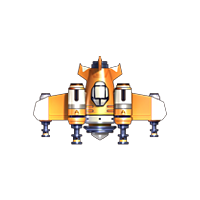
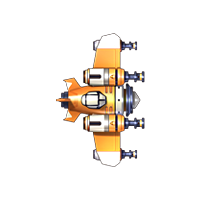
fix sight problem

Changed region(s): [[0.15, 0.15, 0.84, 0.81], [0.51, 0.81, 0.6, 0.84]]

diff --git a/game/src/StartScene.js b/game/src/StartScene.js
@@ -1,7 +1,9 @@
 var GameLayer = cc.Layer.extend({
 
     left_robot: null,
+    left_health: null,
     right_robot: null,
+    right_health: null,
 
     token: null,
 
@@ -33,13 +35,18 @@ var GameLayer = cc.Layer.extend({
     webstate: false,
 
     updateUI: function(data) {
+        var zoomScale = 9;
         console.log(data);
         var leftRobotData = data.left_robot,
             rightRobotData = data.right_robot;
-        this.left_robot.setPosition(leftRobotData.position.x, leftRobotData.position.y);
+        this.left_robot.setPosition(leftRobotData.position.x * zoomScale,
+            leftRobotData.position.y * zoomScale);
         this.left_robot.setRotation(leftRobotData.direction * 180 / Math.PI);
-        this.right_robot.setPosition(rightRobotData.position.x, rightRobotData.position.y);
+        this.right_robot.setPosition(rightRobotData.position.x * zoomScale,
+            rightRobotData.position.y * zoomScale);
         this.right_robot.setRotation(rightRobotData.direction * 180 / Math.PI);
+        this.left_health.setString('left health: ' + leftRobotData.health);
+        this.right_health.setString('right health: ' + rightRobotData.health);
     },
 
     openChannel: function(ref) {
@@ -62,6 +69,31 @@ var GameLayer = cc.Layer.extend({
 
     },
 
+    initSprite: function(resource, position, degree, scale) {
+        var sprite = cc.Sprite.create(resource);
+        sprite.setPosition(position.x, position.y);
+        sprite.setRotation(degree);
+        sprite.setScale(scale);
+        return sprite;
+    },
+
+    initHealth: function(robot, position) {
+
+        var healthBar = cc.LabelTTF.create(robot + ' health ', 'Arial', 20);
+        healthBar.setPosition(position.x, position.y);
+        /*var healthBar =
+            cc.ProgressTimer.create(this.initSprite(res.health_bar, position, 0, 0.4));
+        healthBar.setType(cc.PROGRESS_TIMER_TYPE_BAR);
+        healthBar.setBarChangeRate(cc.p(1, 0));
+        healthBar.setMidpoint(cc.p(0, 0));
+        
+        healthBar.setPosition(cc.p(position.x, position.y)); 
+
+        
+        return healthBar;*/
+        return healthBar;
+    },
+
     ctor:function () {
         this._super();
 
@@ -70,24 +102,29 @@ var GameLayer = cc.Layer.extend({
 
         var size = cc.winSize;
 
-        var sprite = cc.Sprite.create(res.background);
-        sprite.setPosition(size.width / 2, size.height / 2);
-        sprite.setScale(0.6);
-        this.addChild(sprite, 0);
+        var background = this.initSprite(res.background,
+            {'x': size.width / 2, 'y': size.height / 2}, 0, 1);
+        this.addChild(background, 0);
 
-        this.left_robot = cc.Sprite.create(res.yellow_robot);
-        this.left_robot.setPosition(size.width / 3, size.height / 2);
-        this.left_robot.setRotation(90);
-        this.left_robot.setScale(0.6);
+        this.left_robot = this.initSprite(res.yellow_robot,
+            {'x': size.width / 3, 'y': size.height / 2}, 0, 0.6);
         this.addChild(this.left_robot, 1);
 
-        this.right_robot = cc.Sprite.create(res.blue_robot);
-        this.right_robot.setPosition(size.width * 2 / 3, size.height / 2);
-        this.right_robot.setRotation(270);
-        this.right_robot.setScale(0.6);
+        this.right_robot = this.initSprite(res.blue_robot,
+            {'x': size.width * 2 / 3, 'y': size.height / 2}, 0, 0.6);
         this.addChild(this.right_robot, 1);
 
+        this.left_health = this.initHealth('left robot',
+            {'x': size.width * 0.1, 'y': size.height * 0.9 });
+        this.addChild(this.left_health, 1);
+
+        this.right_health = this.initHealth('right robot',
+            {'x': size.width * 0.8, 'y': size.height * 0.9});
+        this.addChild(this.right_health, 1);
+
         this.scheduleUpdate();
+
+
        
         return true;
     },
@@ -97,10 +134,14 @@ var GameLayer = cc.Layer.extend({
             this.websocket.send(JSON.stringify({'action': 'token', 'token': this.token}));
     },
 
+    lastUpdateTime: null,
+
     update: function(dt) {
-        this.watchFight(this);
-            
-        this.left_robot.setPosition(this.left_robot.x + dt * 10, this.left_robot.y);
+        var currTime = new Date().getTime();
+        if (null == this.lastUpdateTime || currTime - this.lastUpdateTime >= 1000) {
+            this.watchFight(this);
+            this.lastUpdateTime = currTime;
+        }
     }
 });
 

diff --git a/server/core/playground.js b/server/core/playground.js
@@ -23,12 +23,24 @@ ContextBuilder.prototype.withShape = function(shape) {
     return this;
 }
 
+ContextBuilder.prototype.withLocation = function(loc) {
+    this.loc = loc;
+    return  this;
+}
+
+ContextBuilder.prototype.withSight = function(sight) {
+    this.sight = sight;
+    return this;
+}
+
 ContextBuilder.prototype.build = function() {
 
     return {
-        'board_shape': this.shape,
+        'shape': this.shape,
         'items': this.items,
-        'hurt': this.hurt
+        'hurt': this.hurt,
+        'loc': this.loc,
+        'sight': this.sight
     };
 }
 
@@ -105,9 +117,9 @@ function PlaygroundBuilder() {
     }
 
     Playground.prototype.moveOnBoard = function(robot, loc) {
-        var oldLoc = robot.getLocation();
-        if (oldLoc != undefined)
-            delete this.board[oldLoc.y][oldLoc.x].item;
+        var prevLoc = robot.prevLoc;
+        if (undefined != prevLoc)
+            delete this.board[prevLoc.y][prevLoc.x].item;
         this.board[loc.y][loc.x].item = robot;
     }
 
@@ -121,11 +133,15 @@ function PlaygroundBuilder() {
     Playground.prototype.updateSight = function(robot) {
 
         var view = [];
-
+        var sector = [];
         scanSector(robot.sight, robot.loc, this.board, function(e) {
-            if (e.item != undefined)
+            sector.push(e);
+            if (undefined != e.item 
+                && !( e.x == robot.loc.x && e.y == robot.loc.y))
                 view.push(e.item);
         });
+        while ( undefined != (e = sector.pop()))
+            e.covered = false;
         return view;
     }
 
@@ -134,7 +150,7 @@ function PlaygroundBuilder() {
         var sz = size(this.board);
         var x = sz[0], y = sz[1];
         var robotY = Math.floor(y / 2),
-            xL = Math.floor(x / 3), xR = Math.floor(2 * x / 3);
+            xL = Math.floor(x * 2 / 3), xR = Math.floor(3 * x / 4);
         var initL = Point(xL, robotY), initR = Point(xR, robotY);
         this.moveRobot(this.robotL, initL);
         this.moveRobot(this.robotR, initR);
@@ -144,6 +160,8 @@ function PlaygroundBuilder() {
     }
 
     Playground.prototype.executeAct = function(summaryL, summaryR) {
+        this.moveRobot(this.robotL, this.robotL.loc);
+        this.moveRobot(this.robotR, this.robotR.loc);
         var distance = calDistance(this.robotL.getLocation(),
             this.robotR.getLocation());
         //if (distance <= this.robotL.attribute.arm)
@@ -157,13 +175,23 @@ function PlaygroundBuilder() {
         while(this.robotL.isAlive() && this.robotR.isAlive()) {
             var viewL = this.updateSight(this.robotL),
                 viewR = this.updateSight(this.robotR);
+
+            //this.board[50][75].covered = false;
+            //this.board[50][66].covered = false;
+
+            //console.log(this.board[50][75]);
+
             var contextL = new ContextBuilder()
                             .withItems(viewL)
                             .withShape(this.shape)
+                            .withLocation(this.robotL.loc)
+                            .withSight(this.robotL.sight)
                             .build(),
                 contextR = new ContextBuilder()
                             .withItems(viewR)
                             .withShape(this.shape)
+                            .withLocation(this.robotR.loc)
+                            .withSight(this.robotR)
                             .build();
             var actSummaryL = this.robotL.onAct(contextL),
                 actSummaryR = this.robotR.onAct(contextR);
@@ -210,6 +238,7 @@ function PlaygroundBuilder() {
 
     PlaygroundBuilder.prototype.build = function() {
         var playground = new Playground();
+        //console.log(this.grid);
         playground.initBoard(this.grid);
         playground.initRobot(this.robotLhs, this.robotRhs);
         return playground;

diff --git a/game/index.html b/game/index.html
@@ -7,7 +7,7 @@
     <meta name="author" content="html5china"/>
 </head>
 <body>
-<canvas id="gameCanvas" width="1024" height="512"></canvas>
+<canvas id="gameCanvas" width="900" height="900"></canvas>
 <script type="text/javascript" src="CCBoot.js" charset="UTF-8"></script>
 <!-- <script type="text/javascript" src="jquery-3.1.1.js" charset="UTF-8" /> -->
 <script type-"text/javascript" src="main.js"></script>

diff --git a/game/src/Resource.js b/game/src/Resource.js
@@ -31,9 +31,10 @@
  ****************************************************************************/
 
 var res = {
-    background: "res/background_pink.png",
-    yellow_robot: "res/ep_1.png",
-    blue_robot: "res/ep_2.png"
+    background: 'res/background_pink.png',
+    yellow_robot: 'res/ep_1.png',
+    blue_robot: 'res/ep_2.png',
+    health_bar: 'res/red-bar.png'
 };
 
 var g_mainmenu = [

diff --git a/server/core/robot.js b/server/core/robot.js
@@ -151,6 +151,7 @@ Robot.prototype.ActTable = {
             return calDistance(robot.loc, action.point) <= robot.attribute.reach;
         },
         'act': function(robot, action) {
+            robot.prevLoc = robot.loc;
             robot.loc = action.point;
         }
     },
